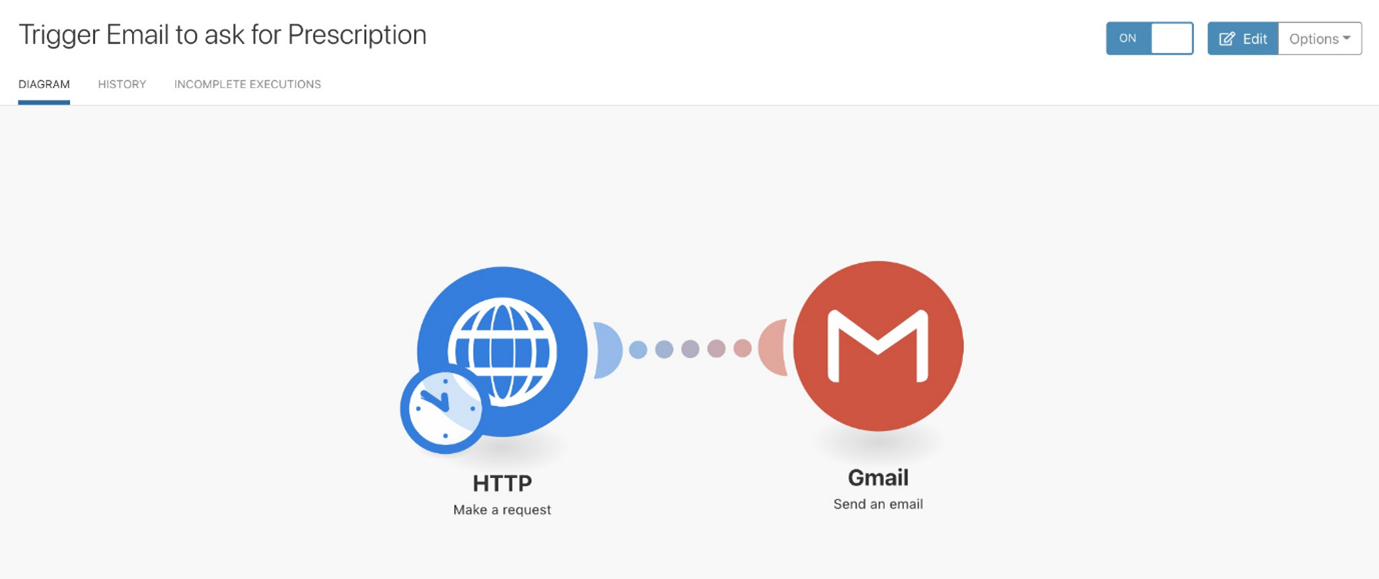
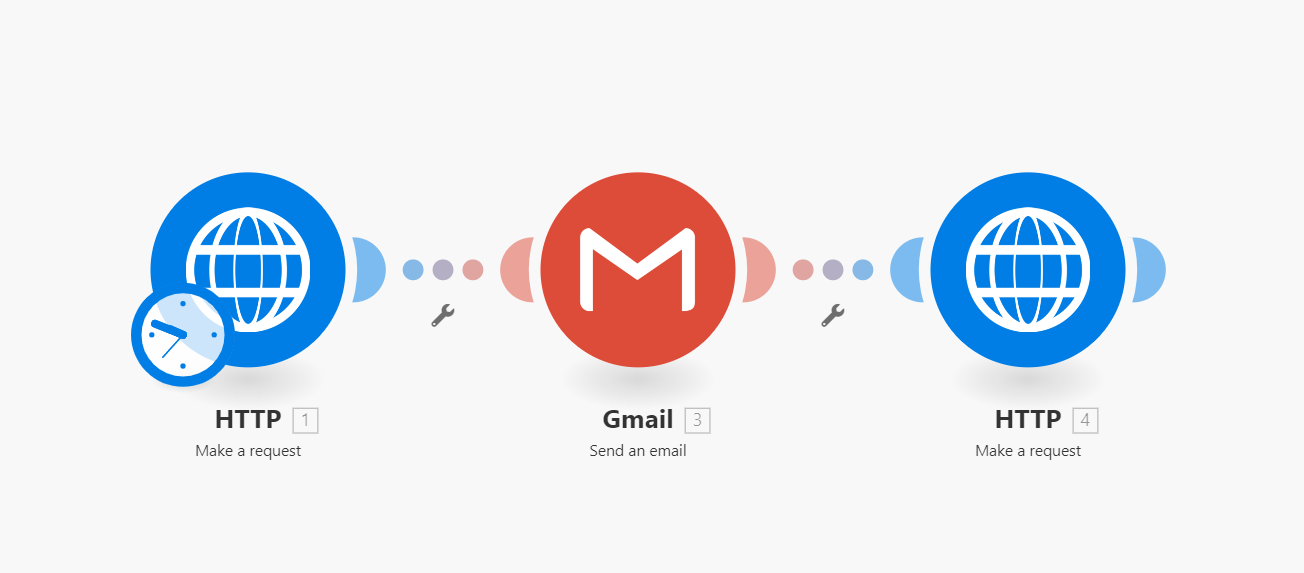
Updated Integromat description in readme file

diff --git a/README.md b/README.md
@@ -14,7 +14,7 @@ Hsaine El-Ali
 	1. [The Web Page](#the-web-page)
 	2. [Camunda](#camunda)
 	3. [Integromat](#integromat)
-	4. [Lager](#lager)
+	4. [Inventory](#inventory)
 	5. [Billing](#billing)
 3. [Step by Step](#step-by-step)
 ***
@@ -66,23 +66,23 @@ As mentioned previously, if the drug needs a prescription, then an email must be
 
 ![Integromat Pt1](pictures/Integromat_pt1.png)
 
-Integromat serves another important purpose. It periodically scans the mailbox of the digital pharmacy for any new emails containing PDF documents. It then stores them on Google drive and saves in Google Sheets the Name, Date, Medicine and Email. When the information is received, then it sends the notification to Camunda.  
+Integromat serves another important purpose. It periodically scans the mailbox of the digital pharmacy for any new emails containing PDF documents. It then stores them on Google drive. At the same time we are using Google Cloud Vision as an Optical Character Recognition (OCR) tool to extract the information from the prescription, including the patient name and the name of the drug ordered. Together with the information from the email such as the time sent and the email address, those information will be stored in AirTable.
 
 ![Integromat Pt2](pictures/Integromat_pt2.jpeg)
 
-When the customer has provided the prescription, Camunda will receive a request to be manually validated by an employee.  
+When the customer has provided the prescription, Camunda will receive a request to be manually validated by an employee (pharmacist).  
 
 ![Prescription Validation](pictures/Prescription_Validation.jpg)
 
 
-### *Lager*
-After receiving the prescription and manual confirmation, the process will be transferred to the Lager. The employee at the station will be requested to manually pack the order displayed to him and confirm its readiness.  
+### *Inventory*
+After receiving the prescription and manual confirmation, the process will be transferred to the inventory. The employee at the station will be requested to manually pack the order displayed to him and confirm its readiness.  
 
-When confirmed, the process will once again redirect to Intregromat to updates the stock in the AirTables.
+When confirmed, the process will once again redirect to Intregromat to updates the stock in AirTable.
 
 
 ### *Billing*
-The final step of the process is to send the final confirmation to the customer that includes the bill. This step is done via Integromat, which sends an email to the customer's email address.  
+The final step of the process is to send the final order confirmation to the customer. This step is done via Integromat, which sends an email to the customer's email address.  
 ***
 
 ## Step by Step
